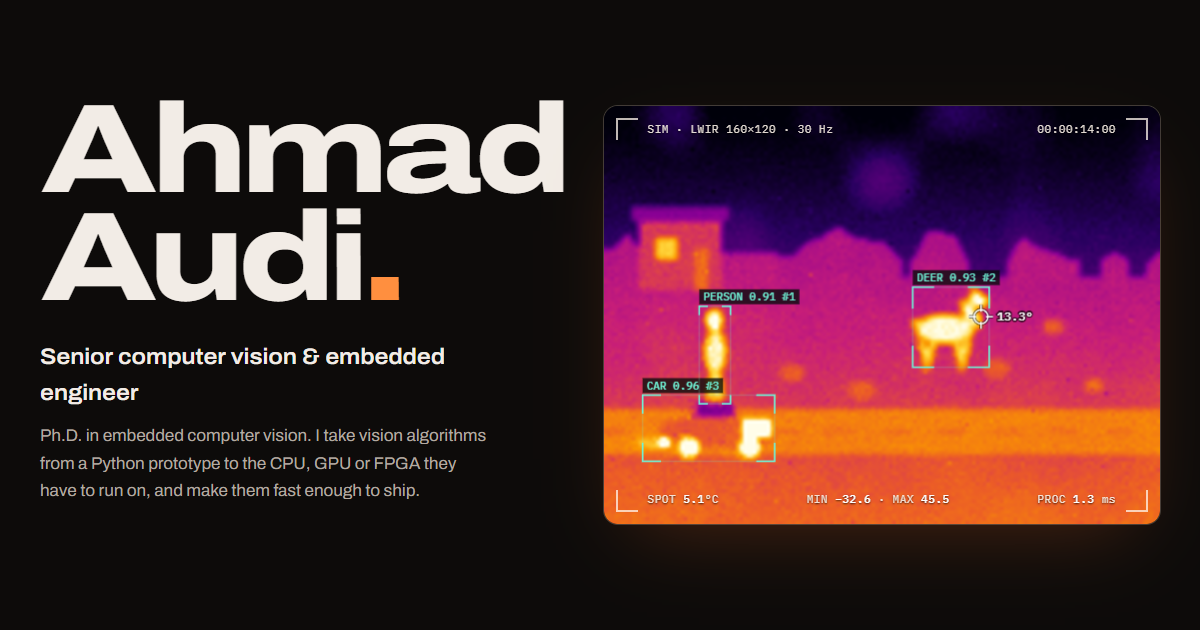
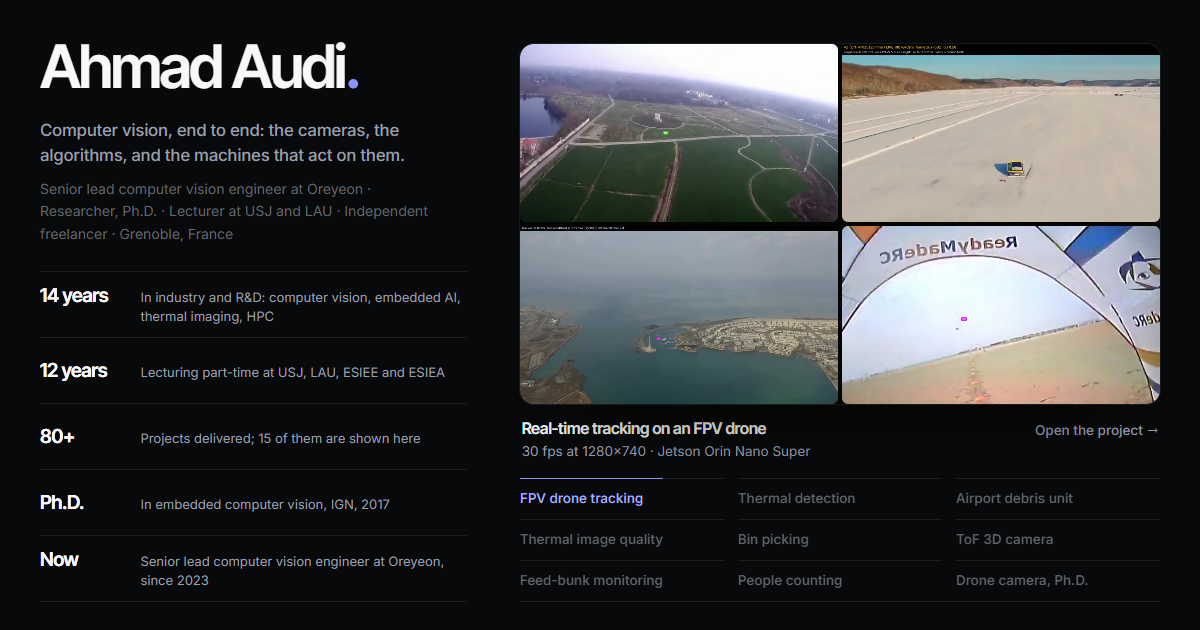
Domain ahmadaudi.com: canonical links, site address, new link-preview image

diff --git a/index.html b/index.html
@@ -8,11 +8,14 @@
   <meta name="author" content="Ahmad Audi">
   <meta name="theme-color" content="#0b0f13">
 
-  <!-- Social preview. If the site lives somewhere other than ahmadaudi.com, update og:image and og:url. -->
+  <link rel="canonical" href="https://ahmadaudi.com/">
+  <!-- Social preview (the site lives at ahmadaudi.com; assets/og-cover.png is a 1200×630 capture of the hero). -->
   <meta property="og:type" content="website">
   <meta property="og:title" content="Ahmad Audi — Computer vision engineer, camera to application">
   <meta property="og:description" content="Computer vision systems built end to end: cameras and data, classical and deep-learning algorithms, 3D, tracking, and the application around them, from servers to edge devices.">
   <meta property="og:image" content="https://ahmadaudi.com/assets/og-cover.png">
+  <meta property="og:image:width" content="1200">
+  <meta property="og:image:height" content="630">
   <meta property="og:url" content="https://ahmadaudi.com/">
   <meta name="twitter:card" content="summary_large_image">
 
@@ -20,8 +23,8 @@
   <link rel="preconnect" href="https://fonts.googleapis.com">
   <link rel="preconnect" href="https://fonts.gstatic.com" crossorigin>
   <link rel="stylesheet" href="https://fonts.googleapis.com/css2?family=Inter:wght@400..700&family=Inter+Tight:wght@500..700&family=IBM+Plex+Mono:wght@400;500;600&display=swap">
-  <link rel="stylesheet" href="styles.css?v=1794254802">
-  <link rel="stylesheet" href="styles-variants.css?v=1794254802">
+  <link rel="stylesheet" href="styles.css?v=1794262819">
+  <link rel="stylesheet" href="styles-variants.css?v=1794262819">
 
   <script>
     // Restore the visitor's light/dark choice before first paint, so there is no flash.
@@ -38,6 +41,7 @@
     "@type": "Person",
     "name": "Ahmad Audi",
     "jobTitle": "Senior Lead Computer Vision Engineer",
+    "url": "https://ahmadaudi.com/",
     "worksFor": [{ "@type": "Organization", "name": "Oreyeon" }, { "@type": "CollegeOrUniversity", "name": "Saint Joseph University of Beirut" }, { "@type": "CollegeOrUniversity", "name": "Lebanese American University" }],
     "email": "mailto:audiahmad@hotmail.com",
     "address": { "@type": "PostalAddress", "addressLocality": "Grenoble", "addressCountry": "FR" },
@@ -804,17 +808,17 @@
     </div>
   </footer>
 
-  <script src="js/main.js?v=1794254802"></script>
-  <script src="js/titles.js?v=1794254802"></script>
-  <script src="js/ambient.js?v=1794254802"></script>
-  <script src="js/work.js?v=1794254802"></script>
-  <script src="js/sims.js?v=1794254802"></script>
-  <script src="js/previews.js?v=1794254802"></script>
-  <script src="js/hero3d.js?v=1794254802"></script>
-  <script src="js/herowall.js?v=1794254802"></script>
-  <script src="js/motifs.js?v=1794254802"></script>
-  <script src="js/compare.js?v=1794254802"></script>
-  <script src="js/rotate.js?v=1794254802"></script>
-  <script src="js/pfilter.js?v=1794254802"></script>
+  <script src="js/main.js?v=1794262819"></script>
+  <script src="js/titles.js?v=1794262819"></script>
+  <script src="js/ambient.js?v=1794262819"></script>
+  <script src="js/work.js?v=1794262819"></script>
+  <script src="js/sims.js?v=1794262819"></script>
+  <script src="js/previews.js?v=1794262819"></script>
+  <script src="js/hero3d.js?v=1794262819"></script>
+  <script src="js/herowall.js?v=1794262819"></script>
+  <script src="js/motifs.js?v=1794262819"></script>
+  <script src="js/compare.js?v=1794262819"></script>
+  <script src="js/rotate.js?v=1794262819"></script>
+  <script src="js/pfilter.js?v=1794262819"></script>
 </body>
 </html>

diff --git a/projects.html b/projects.html
@@ -8,11 +8,14 @@
   <meta name="author" content="Ahmad Audi">
   <meta name="theme-color" content="#0b0f13">
 
-  <!-- Social preview. If the site lives somewhere other than ahmadaudi.com, update og:image and og:url. -->
+  <link rel="canonical" href="https://ahmadaudi.com/projects.html">
+  <!-- Social preview (the site lives at ahmadaudi.com; assets/og-cover.png is a 1200×630 capture of the hero). -->
   <meta property="og:type" content="website">
   <meta property="og:title" content="Projects — Ahmad Audi">
   <meta property="og:description" content="Computer vision systems built end to end: cameras and data, classical and deep-learning algorithms, 3D, tracking, and the application around them, from servers to edge devices.">
   <meta property="og:image" content="https://ahmadaudi.com/assets/og-cover.png">
+  <meta property="og:image:width" content="1200">
+  <meta property="og:image:height" content="630">
   <meta property="og:url" content="https://ahmadaudi.com/projects.html">
   <meta name="twitter:card" content="summary_large_image">
 
@@ -20,8 +23,8 @@
   <link rel="preconnect" href="https://fonts.googleapis.com">
   <link rel="preconnect" href="https://fonts.gstatic.com" crossorigin>
   <link rel="stylesheet" href="https://fonts.googleapis.com/css2?family=Inter:wght@400..700&family=Inter+Tight:wght@500..700&family=IBM+Plex+Mono:wght@400;500;600&display=swap">
-  <link rel="stylesheet" href="styles.css?v=1794254802">
-  <link rel="stylesheet" href="styles-variants.css?v=1794254802">
+  <link rel="stylesheet" href="styles.css?v=1794262819">
+  <link rel="stylesheet" href="styles-variants.css?v=1794262819">
 
   <script>
     // Restore the visitor's light/dark choice before first paint, so there is no flash.
@@ -640,13 +643,13 @@
     <button class="lb-btn lb-next" type="button" aria-label="Next image">›</button>
   </dialog>
 
-  <script src="js/main.js?v=1794254802"></script>
-  <script src="js/titles.js?v=1794254802"></script>
-  <script src="js/ambient.js?v=1794254802"></script>
-  <script src="js/work.js?v=1794254802"></script>
-  <script src="js/sims.js?v=1794254802"></script>
-  <script src="js/previews.js?v=1794254802"></script>
-  <script src="js/slides.js?v=1794254802"></script>
-  <script src="js/compare.js?v=1794254802"></script>
+  <script src="js/main.js?v=1794262819"></script>
+  <script src="js/titles.js?v=1794262819"></script>
+  <script src="js/ambient.js?v=1794262819"></script>
+  <script src="js/work.js?v=1794262819"></script>
+  <script src="js/sims.js?v=1794262819"></script>
+  <script src="js/previews.js?v=1794262819"></script>
+  <script src="js/slides.js?v=1794262819"></script>
+  <script src="js/compare.js?v=1794262819"></script>
 </body>
 </html>
